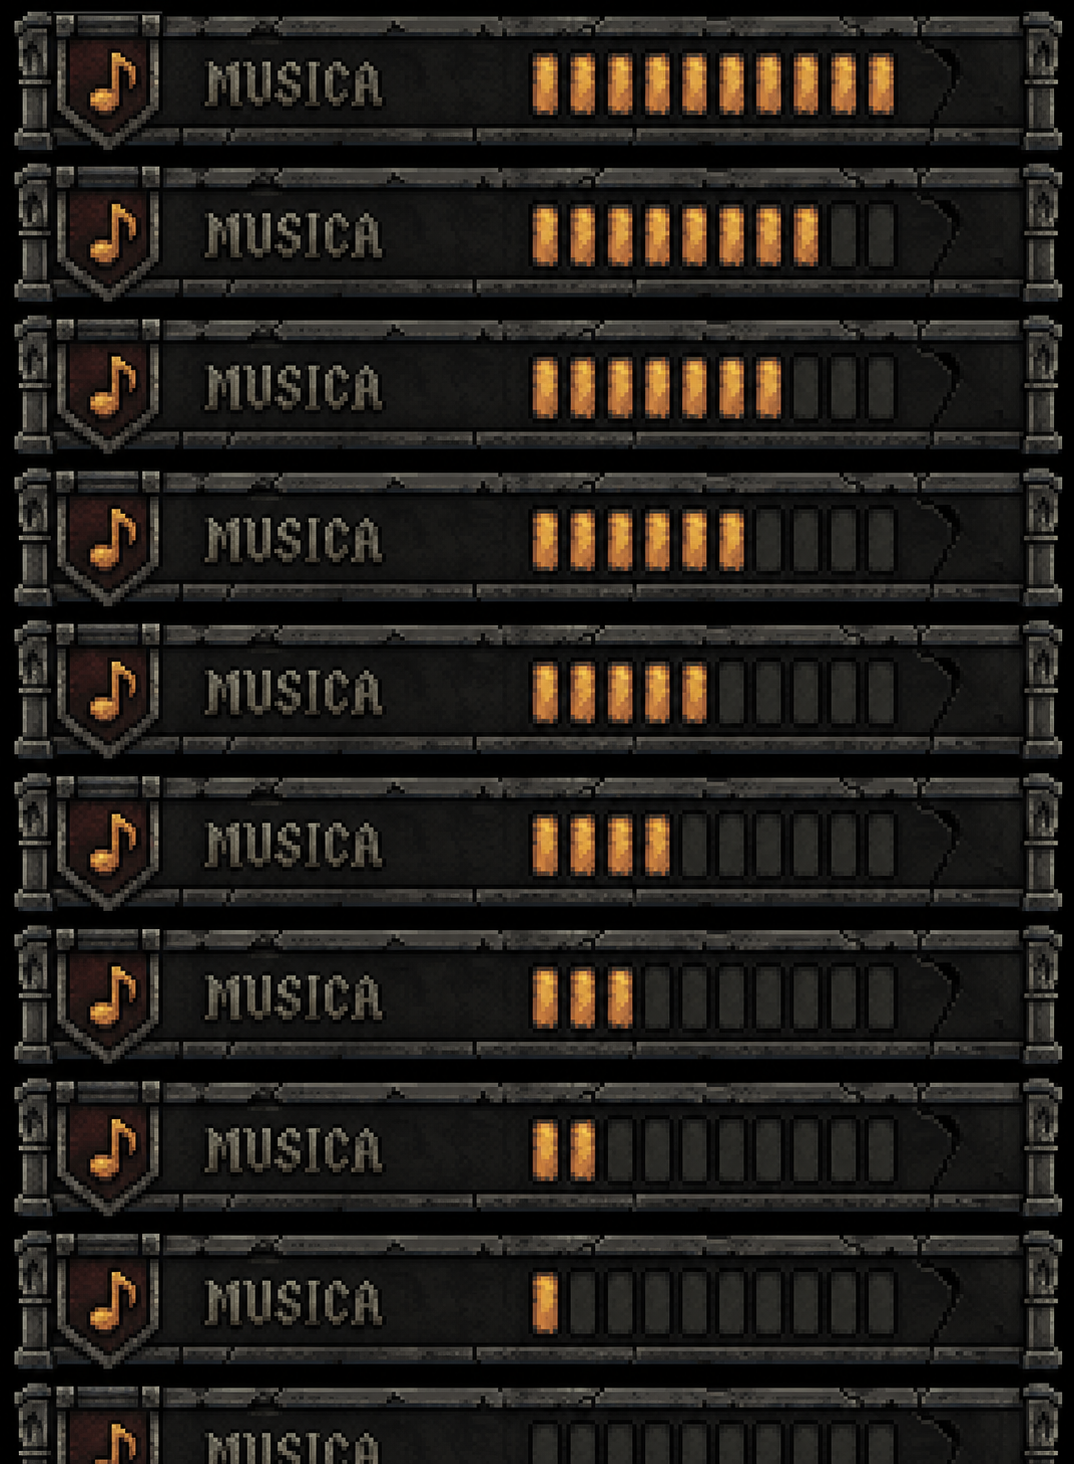
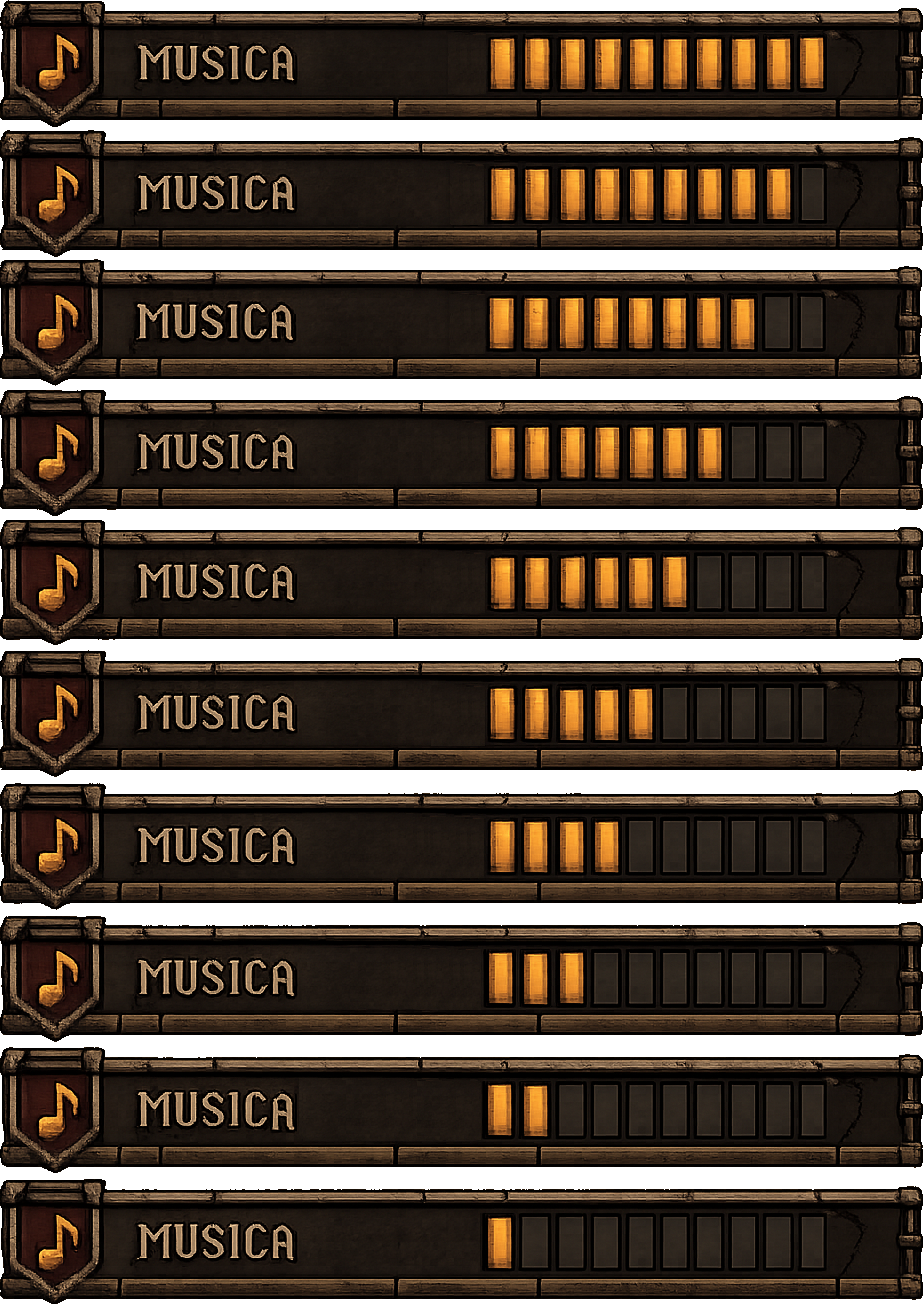
.

diff --git a/core/src/main/java/com/mortaTower/Vista/OpcionesVista.java b/core/src/main/java/com/mortaTower/Vista/OpcionesVista.java
@@ -2,6 +2,7 @@ package com.mortaTower.Vista;
 
 import com.badlogic.gdx.graphics.Texture;
 import com.badlogic.gdx.graphics.g2d.TextureRegion;
+import com.badlogic.gdx.math.MathUtils;
 import com.badlogic.gdx.graphics.g2d.TextureRegion;
 import com.badlogic.gdx.scenes.scene2d.Stage;
 import com.badlogic.gdx.scenes.scene2d.ui.Image;
@@ -14,240 +15,157 @@ import com.mortaTower.Modelo.OpcionesModelo;
 
 public class OpcionesVista {
 
-    private OpcionesModelo modelo;
-
     private Stage stage;
-    private Texture transparencia, fondo, controles;
-    private final Texture[] texturas;
-    private TextureRegion[][][] sprites;
 
-    //actores visuales
+    private Texture transparencia, fondo, controles;
+    private Texture musicaTex, efectosTex;
+
+    private TextureRegion[] musicaFrames;
+    private TextureRegion[] efectosFrames;
+
+    // actores
     private Image imgMusica, imgEfectos, imgPantallaControles;
 
-    //botones
-    private ImageButton btnMusicaMenos, btnMusicaMas, btnEfectosMenos, btnEfectosMas, btnControles;
-
+    // botones
+    private ImageButton btnMusicaMenos, btnMusicaMas;
+    private ImageButton btnEfectosMenos, btnEfectosMas;
+    private ImageButton btnControles;
 
     public OpcionesVista(FitViewport viewport, Main game) {
+
         stage = new Stage(viewport, game.batch);
 
-        //carga de texturas
+        // TEXTURAS
         transparencia = new Texture("Imagenes/black.png");
         fondo = new Texture("Imagenes/Opciones/menuOpciones.png");
         controles = new Texture("Imagenes/Opciones/menuControles.png");
 
-         texturas = new Texture[] {
-            new Texture("Imagenes/Opciones/volMusica.png"),
-            new Texture("Imagenes/Opciones/volEfectos.png"),
-            new Texture("Imagenes/Opciones/controles.png"),
-            
-        };
+        musicaTex = new Texture("Imagenes/Opciones/volMusica.png");
+        efectosTex = new Texture("Imagenes/Opciones/volEfectos.png");
 
         Texture texMenos = new Texture("Imagenes/Opciones/btn_menos.png");
         Texture texMas = new Texture("Imagenes/Opciones/btn_mas.png");
 
-            int[] cols = {2, 2, 2};
-            int[] fil = {12, 12, 1};
-            sprites = new TextureRegion[texturas.length][][];
+        // =========================
+        // SPLIT CORRECTO (10 niveles)
+        // =========================
+        musicaFrames = TextureRegion.split(
+                musicaTex,
+                musicaTex.getWidth() / 10,
+                musicaTex.getHeight()
+        )[0];
 
-            for (int i = 0; i < texturas.length; i++) {
-                int columnas = cols[i];
-                int filas = fil[i];
-                int ancho = texturas[i].getWidth() / columnas;
-                int alto = texturas[i].getHeight() / filas;
-                sprites[i] = new TextureRegion[columnas][filas];
+        efectosFrames = TextureRegion.split(
+                efectosTex,
+                efectosTex.getWidth() / 10,
+                efectosTex.getHeight()
+        )[0];
 
-                for (int estado = 0; estado < columnas; estado++) {
-                    for (int nivel = 0; nivel < filas; nivel++) {
-                        sprites[i][estado][nivel] = new TextureRegion(texturas[i], estado * ancho, nivel * alto, ancho, alto);
-                    }
-                }
-            }
-
-            //crear actores
-        imgMusica = new Image(new TextureRegionDrawable(sprites[0][1][11]));
-        imgEfectos = new Image(new TextureRegionDrawable(sprites[1][1][11]));
+        // =========================
+        // ACTORES
+        // =========================
+        imgMusica = new Image(new TextureRegionDrawable(musicaFrames[0]));
+        imgEfectos = new Image(new TextureRegionDrawable(efectosFrames[0]));
 
         btnMusicaMenos = crearBotonSimple(texMenos);
         btnMusicaMas = crearBotonSimple(texMas);
         btnEfectosMenos = crearBotonSimple(texMenos);
         btnEfectosMas = crearBotonSimple(texMas);
 
-        btnControles = crearBotonDoble(texturas[2]);
+        btnControles = crearBotonDoble(new Texture("Imagenes/Opciones/controles.png"));
 
         imgPantallaControles = new Image(controles);
         imgPantallaControles.setVisible(false);
 
+        // =========================
+        // UI
+        // =========================
         Table tabla = new Table();
         tabla.setFillParent(true);
         tabla.center();
-
+        
         float tamañoBtn = 50f;
 
         tabla.add(btnMusicaMenos).size(tamañoBtn, tamañoBtn).padRight(15);
         tabla.add(imgMusica).padBottom(20);
         tabla.add(btnMusicaMas).size(tamañoBtn, tamañoBtn).padLeft(15).row();
-        
+
         tabla.add(btnControles).colspan(3).padTop(20).row();
 
-
         stage.addActor(tabla);
-        
-        imgPantallaControles.setPosition((stage.getWidth() - imgPantallaControles.getWidth())/2, (stage.getHeight() - imgPantallaControles.getHeight())/2);
         stage.addActor(imgPantallaControles);
     }
 
+    // =========================
+    // BOTONES
+    // =========================
+
     private ImageButton crearBotonDoble(Texture textura) {
-        int ancho = textura.getWidth() /2;
+        int ancho = textura.getWidth() / 2;
         int alto = textura.getHeight();
+
         TextureRegion normal = new TextureRegion(textura, 0, 0, ancho, alto);
         TextureRegion seleccionado = new TextureRegion(textura, ancho, 0, ancho, alto);
+
         ImageButton.ImageButtonStyle style = new ImageButton.ImageButtonStyle();
         style.imageUp = new TextureRegionDrawable(normal);
         style.imageOver = new TextureRegionDrawable(seleccionado);
+
         return new ImageButton(style);
     }
 
     private ImageButton crearBotonSimple(Texture textura) {
-        TextureRegion normal = new TextureRegion(textura);
         ImageButton.ImageButtonStyle style = new ImageButton.ImageButtonStyle();
-        style.imageUp = new TextureRegionDrawable(normal);
+        style.imageUp = new TextureRegionDrawable(new TextureRegion(textura));
         return new ImageButton(style);
     }
 
+    // =========================
+    // ACTUALIZACIÓN DE BARRAS
+    // =========================
+
     public void actualizarBarraMusica(int nivel) {
-        ((TextureRegionDrawable) imgMusica.getDrawable()).setRegion(sprites[0][1][nivel]);
+        nivel = MathUtils.clamp(nivel, 0, musicaFrames.length - 1);
+        imgMusica.setDrawable(new TextureRegionDrawable(musicaFrames[nivel]));
     }
 
     public void actualizarBarraEfectos(int nivel) {
-        ((TextureRegionDrawable) imgEfectos.getDrawable()).setRegion(sprites[1][1][nivel]);
+        nivel = MathUtils.clamp(nivel, 0, efectosFrames.length - 1);
+        imgEfectos.setDrawable(new TextureRegionDrawable(efectosFrames[nivel]));
     }
 
-    public void render(float delta, boolean mostrarControles) {
-        imgPantallaControles.setVisible(mostrarControles);
+    // =========================
+    // RENDER
+    // =========================
 
-        stage.getBatch().begin();
-        stage.getBatch().setColor(0,0,0,0f);
-        stage.getBatch().draw(transparencia, 0, 0, stage.getWidth(), stage.getHeight());
-        stage.getBatch().setColor(1, 1, 1, 1);
-        stage.getBatch().draw(fondo, 350, 100, stage.getWidth() - 700, stage.getHeight() - 200);
-        stage.getBatch().end();
+    public void render(float delta, boolean mostrarControles) {
+
+        imgPantallaControles.setVisible(mostrarControles);
 
         stage.act(delta);
         stage.draw();
     }
 
+    // =========================
+    // CIERRE
+    // =========================
+
     public void cerrar() {
         stage.dispose();
+
         transparencia.dispose();
         fondo.dispose();
         controles.dispose();
-        for (Texture tex: texturas) tex.dispose();
+        musicaTex.dispose();
+        efectosTex.dispose();
     }
-    
+
     // GETTERS
     public Stage getStage() { return stage; }
+
     public ImageButton getBtnMusicaMenos() { return btnMusicaMenos; }
     public ImageButton getBtnMusicaMas() { return btnMusicaMas; }
     public ImageButton getBtnFxMenos() { return btnEfectosMenos; }
     public ImageButton getBtnFxMas() { return btnEfectosMas; }
     public ImageButton getBtnControles() { return btnControles; }
-    
-    /* public OpcionesVista(OpcionesModelo modelo){
-
-        this.modelo = modelo;
-
-        transparencia = new Texture("Imagenes/black.png");
-
-        fondo = new Texture("Imagenes/Opciones/menuOpciones.png");
-        controles = new Texture("Imagenes/Opciones/menuControles.png");
-
-        texturas = new Texture[] {
-            new Texture("Imagenes/Opciones/volMusica.png"),
-            new Texture("Imagenes/Opciones/volEfectos.png"),
-            new Texture("Imagenes/Opciones/controles.png"),
-            
-        };
-
-        columnas = new int[] {2,2,2};
-        filas = new int[] {12,12,1};
-
-        sprites = new TextureRegion[texturas.length][][];
-
-        for (int i = 0; i < texturas.length; i++) {
-
-            Texture tex = texturas[i];
-
-            int cols = columnas[i];
-            int rows = filas[i];
-
-            int width = tex.getWidth() / cols;
-            int height = tex.getHeight() / rows;
-
-            sprites[i] = new TextureRegion[cols][rows];
-
-            for (int estado = 0; estado < cols; estado++) {
-
-                for (int nivel = 0; nivel < rows; nivel++) {
-
-                    sprites[i][estado][nivel] = new TextureRegion(tex, estado * width, nivel * height, width, height);
-                }
-            }
-        }
-
-    }
-
-    public void draw(SpriteBatch batch) {
-
-        x = WORLD_WIDTH * 0.33f;
-        y = WORLD_HEIGHT * 0.60f;
-
-        ancho = WORLD_WIDTH * 0.35f;
-        alto = WORLD_HEIGHT * 0.12f;
-
-        separacion = WORLD_HEIGHT * 0.15f;
-        
-        // opción seleccionada
-        int seleccion = modelo.getOpcionActual().ordinal(); //conecta el enum del modelo con un índice numérico.
-        int nivelMusica = modelo.getseleccionMusica();
-        int nivelFx = modelo.getseleccionFx();
-
-        batch.setColor(0, 0, 0, 0.8f);
-        batch.draw(transparencia, 0, 0, WORLD_WIDTH, WORLD_HEIGHT);
-        batch.setColor(1, 1, 1, 1);
-        
-        if (modelo.getEstadoActual() == OpcionesModelo.EstadoEnum.CONTROLES){
-
-            batch.draw(controles, 350, 100, WORLD_WIDTH - 700, WORLD_HEIGHT - 200);
-
-        }else{
-
-            batch.draw(fondo, 350, 100, WORLD_WIDTH - 700, WORLD_HEIGHT - 200);
-
-            for (int i = 0; i < sprites.length; i++) {
-
-                int estado = (i == seleccion) ? SELECTED : NORMAL;
-                int nivel = 0;
-
-                if(i == OpcionesEnum.MUSICA.ordinal()){
-                    nivel = nivelMusica;
-                }else if(i == OpcionesEnum.EFECTOS.ordinal()){
-                    nivel = nivelFx;
-                }
-
-                batch.draw(sprites[i][estado][nivel], x, y - separacion * i, ancho, alto);
-            }
-        }
-    }
-
-    public void dispose() {
-
-        fondo.dispose();
-        controles.dispose();
-
-        for (Texture tex : texturas) {
-            tex.dispose();
-        }
-    } */
-    
 }

diff --git a/core/src/main/java/com/mortaTower/Controlador/RecompensaControlador.java b/core/src/main/java/com/mortaTower/Controlador/RecompensaControlador.java
@@ -1,0 +1,20 @@
+package com.mortaTower.Controlador;
+
+import com.mortaTower.Modelo.RecompensasModelo;
+
+public class RecompensaControlador {
+    
+    private RecompensasModelo modelo;
+    private Teclado teclado;
+
+    public RecompensaControlador(RecompensasModelo modelo, Teclado teclado){
+
+        this.modelo = modelo;
+        this.teclado = teclado;
+
+    }
+
+    public void update(){
+
+    }
+}

diff --git a/core/src/main/java/com/mortaTower/Screens/CombateScreen.java b/core/src/main/java/com/mortaTower/Screens/CombateScreen.java
@@ -330,7 +330,7 @@ public class CombateScreen extends Screens {
             //modelo.getHeroe().setEstadoActual(Entidad.Estado.DANIO);
            // modelo.mostrarMensaje (modelo.getEnemigo().getNombre() + " ataca");
            // modelo.getEnemigo().realizarTurno(modelo.getHeroe());
-            game.teclado.resetPresiones();
+           // game.teclado.resetPresiones();
         }
     }
 
